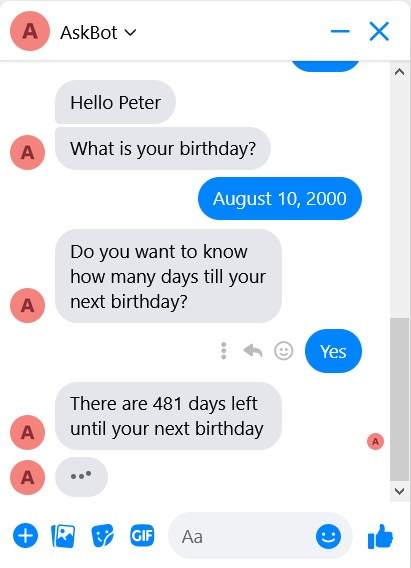
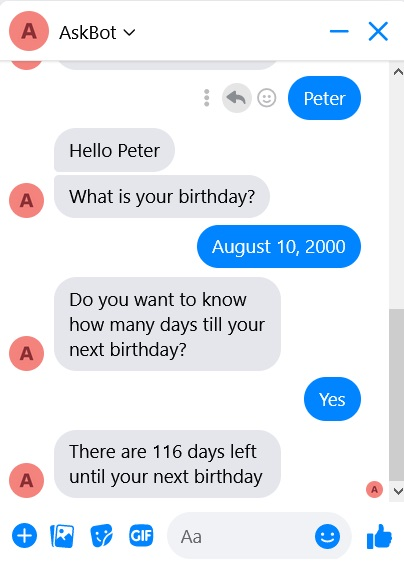
fix when the next birthday is more than 1 year

diff --git a/processes/messages.js b/processes/messages.js
@@ -169,7 +169,10 @@ function findDiffBirthday(uid) {
         if (err) throw err;
         let nextBirthday = new Date(result[0].birthday);
         let today = new Date();
-        nextBirthday.setFullYear(today.getFullYear() + 1);   
+        nextBirthday.setFullYear(today.getFullYear() + 1);  
+        if(today < nextBirthday) {
+            nextBirthday.setFullYear(nextBirthday.getFullYear() - 1);  
+        }
         let diffTime = Math.abs(nextBirthday - today);
         let diffDays = Math.ceil(diffTime / (1000 * 60 * 60 * 24)); 
         let msg = "There are " + diffDays + " days left until your next birthday"
